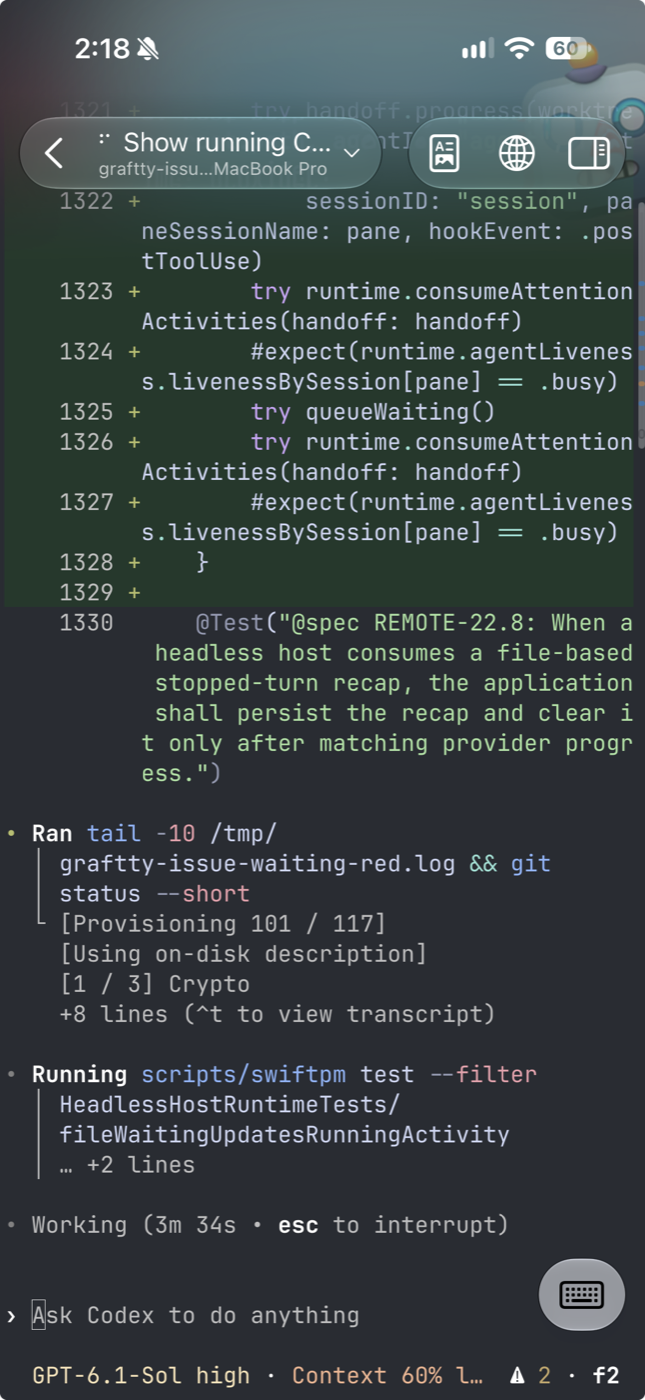
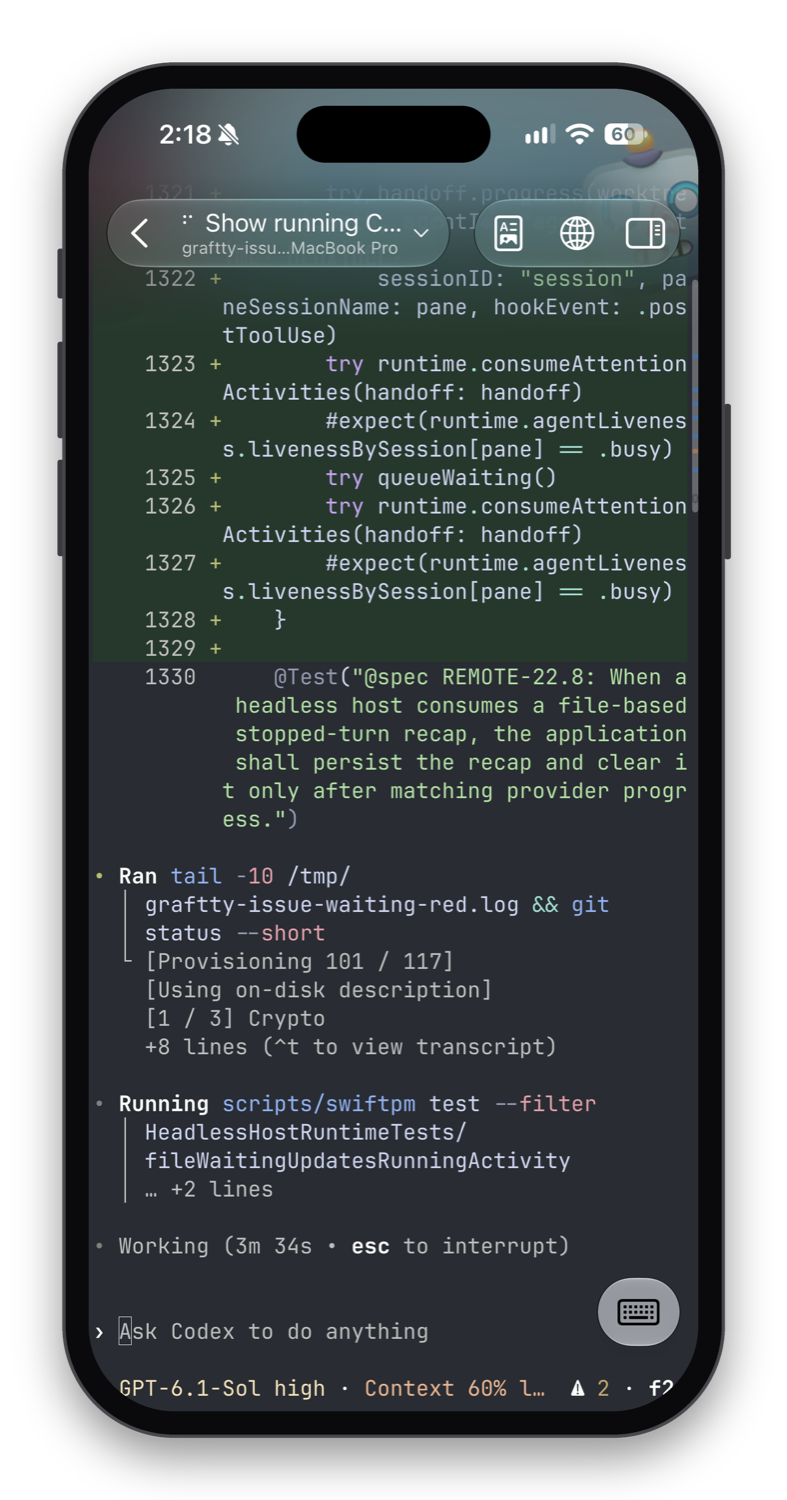
docs(readme): frame the iPhone screenshot in an iPhone bezel

diff --git a/README.md b/README.md
@@ -37,7 +37,7 @@ Graftty organizes persistent terminal sessions by Git worktree. Every project an
 
 ### Take it anywhere
 
-<img align="right" src="docs/screenshots/mobile-terminal.png" alt="Graftty on iPhone attached to a running Codex session on a paired MacBook Pro" width="260" />
+<img align="right" src="docs/screenshots/mobile-terminal.png" alt="Graftty on iPhone attached to a running Codex session on a paired MacBook Pro" width="300" />
 
 - **iPhone and iPad.** GrafttyMobile pairs with your Mac and attaches to the same live sessions. You can type, take control of a pane's size, answer agents, create worktrees, and view previews. On iPad, panes split side by side.
 - **Remote Macs.** Pair two Macs and use one Mac's worktrees and sessions from the other, over the LAN or Tailscale. The connection carries authenticated SSH inside an encrypted WebRTC channel. See [Remote Macs](docs/remote-macs.md).
